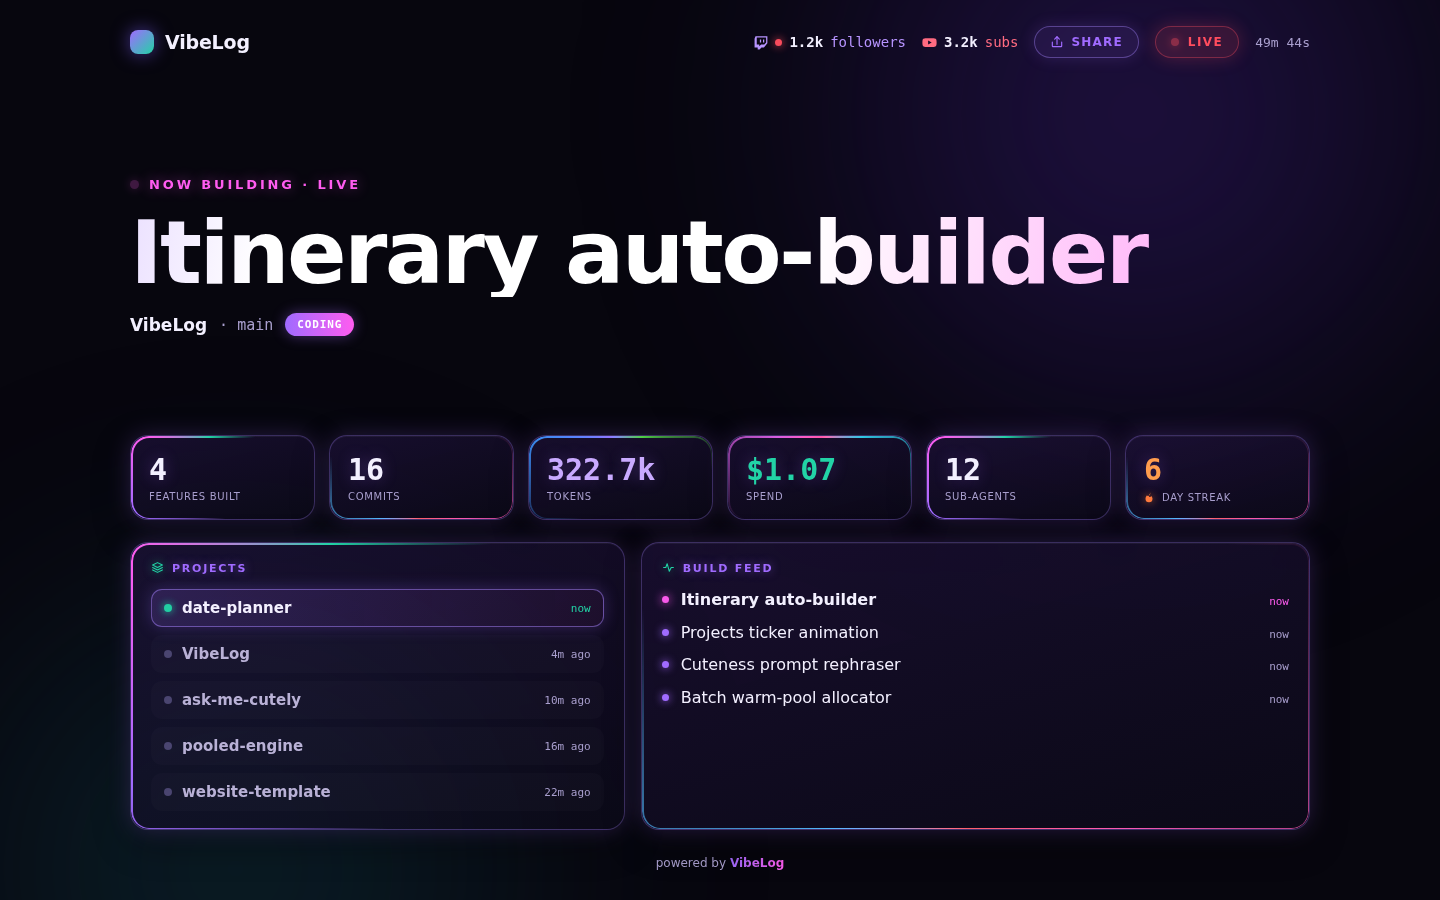
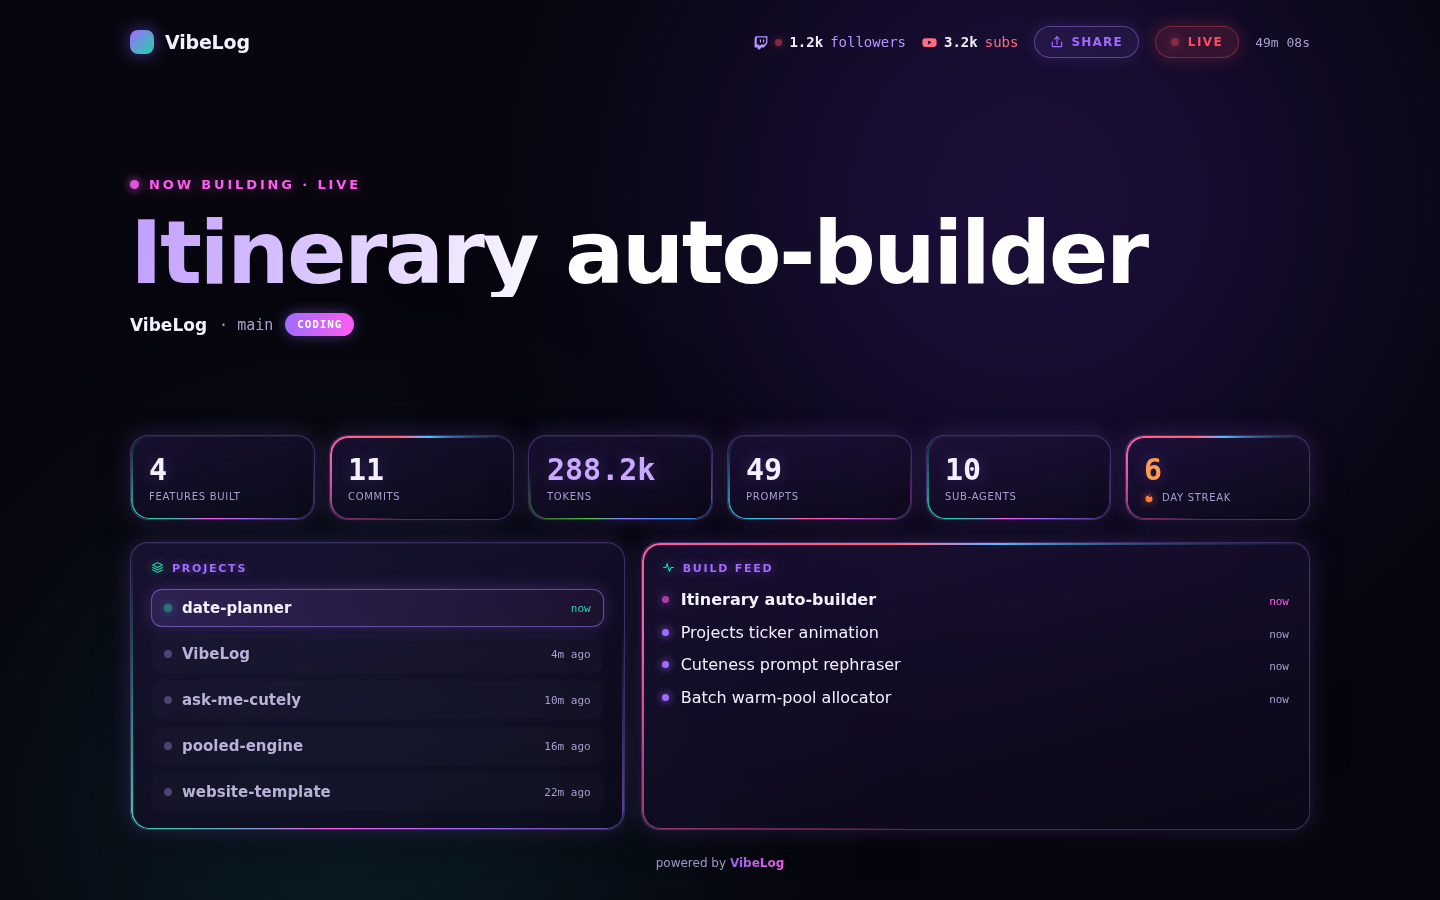
fix(ui): tidy the public-spend toggle and point examples at vibelogs.dev
Wrap the dashboard toggle so it no longer inherits the uppercase section label style, swap the vibelog.n8builds.dev examples in the share page and embed loader for the canonical vibelogs.dev, and retake the /live, mobile /live, share page and share card screenshots from vibe demo with dollar spend hidden.

diff --git a/public/share.html b/public/share.html
@@ -178,7 +178,7 @@
           <div class="field">
             <label class="lab" for="ebase">Your public VibeLog URL</label>
             <input id="ebase" spellcheck="false" autocapitalize="off" autocomplete="off" />
-            <span class="hint">Where your VibeLog is hosted (e.g. https://vibelog.n8builds.dev). Pre-filled with this page's address for the preview.</span>
+            <span class="hint">Where your VibeLog is hosted (e.g. https://vibelogs.dev). Pre-filled with this page's address for the preview.</span>
           </div>
           <div class="field">
             <label class="lab" for="embedCode">Embed snippet</label>

diff --git a/public/dashboard.html b/public/dashboard.html
@@ -400,7 +400,7 @@
 
         <div class="field">
           <label>Public page <span class="hint">— what /live, the embed widget and published snapshots show</span></label>
-          <label class="toggle"><input type="checkbox" id="pubCost"> <span>Show dollar spend publicly</span></label>
+          <div><label class="toggle"><input type="checkbox" id="pubCost"> <span>Show dollar spend publicly</span></label></div>
           <div class="sheet-note">Off by default. Token counts are always public; spend stays on this dashboard and your local overlay.</div>
         </div>
 

diff --git a/public/embed.js b/public/embed.js
@@ -3,7 +3,7 @@
  *
  * Drop this one line anywhere on your own site:
  *
- *   <script src="https://vibelog.n8builds.dev/embed.js" async
+ *   <script src="https://vibelogs.dev/embed.js" async
  *           data-vibelog data-width="380" data-height="250"></script>
  *
  * It injects an <iframe> pointing at <this script's origin>/embed — the compact

diff --git a/worker/public/embed.js b/worker/public/embed.js
@@ -3,7 +3,7 @@
  *
  * Drop this one line anywhere on your own site:
  *
- *   <script src="https://vibelog.n8builds.dev/embed.js" async
+ *   <script src="https://vibelogs.dev/embed.js" async
  *           data-vibelog data-width="380" data-height="250"></script>
  *
  * It injects an <iframe> pointing at <this script's origin>/embed — the compact
